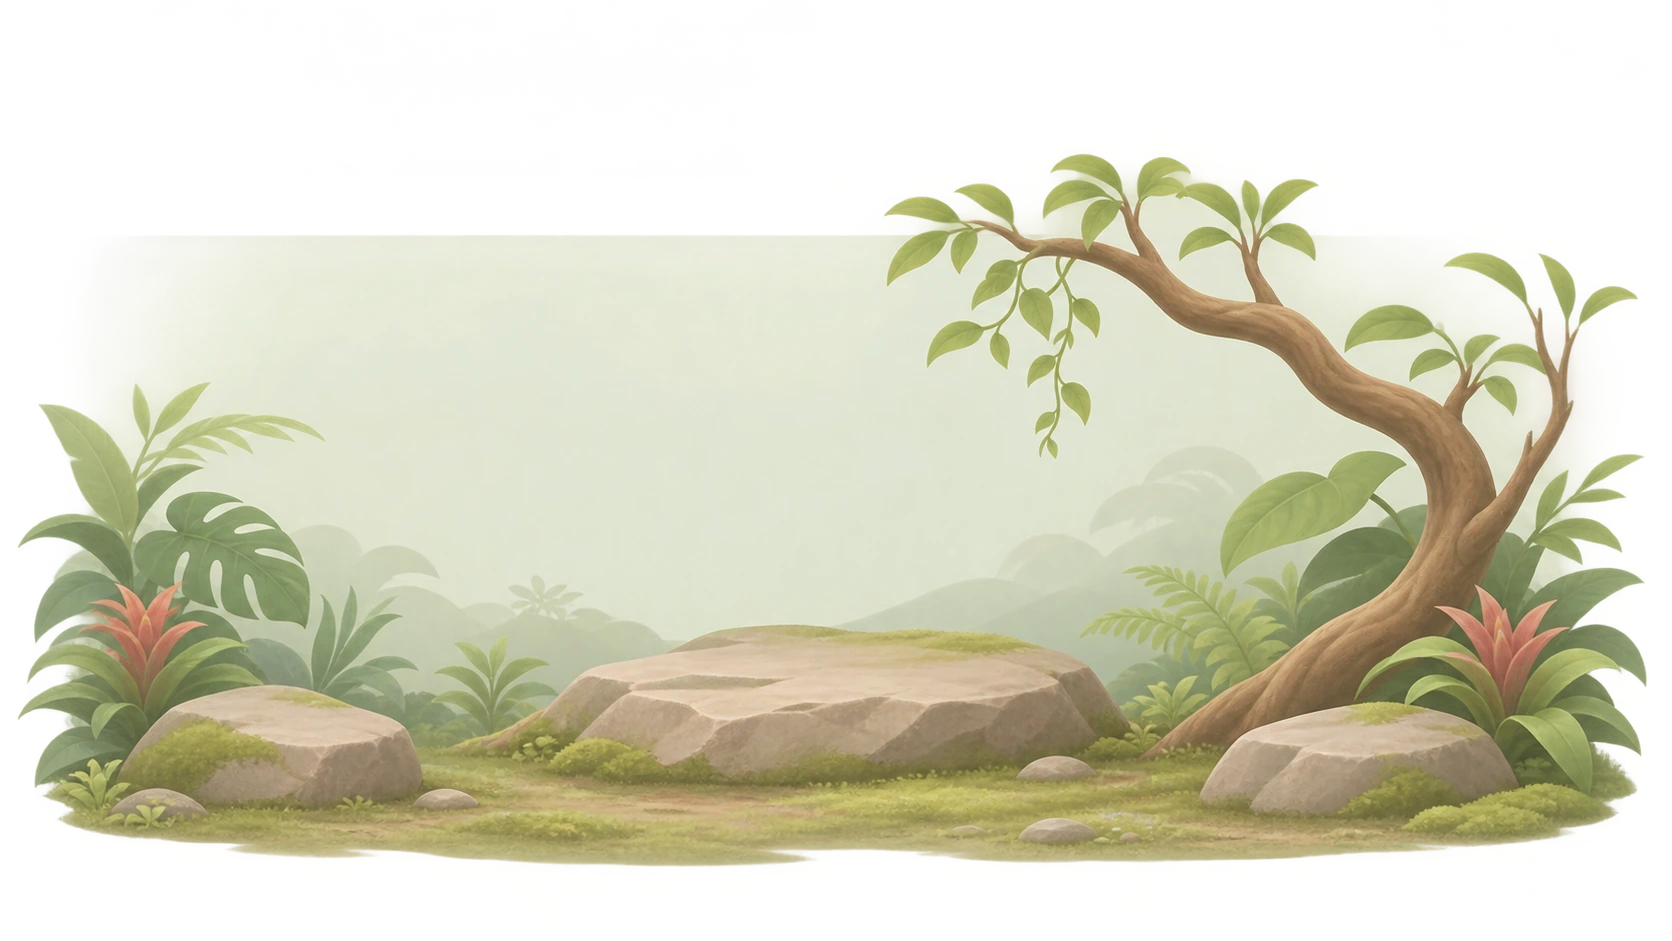
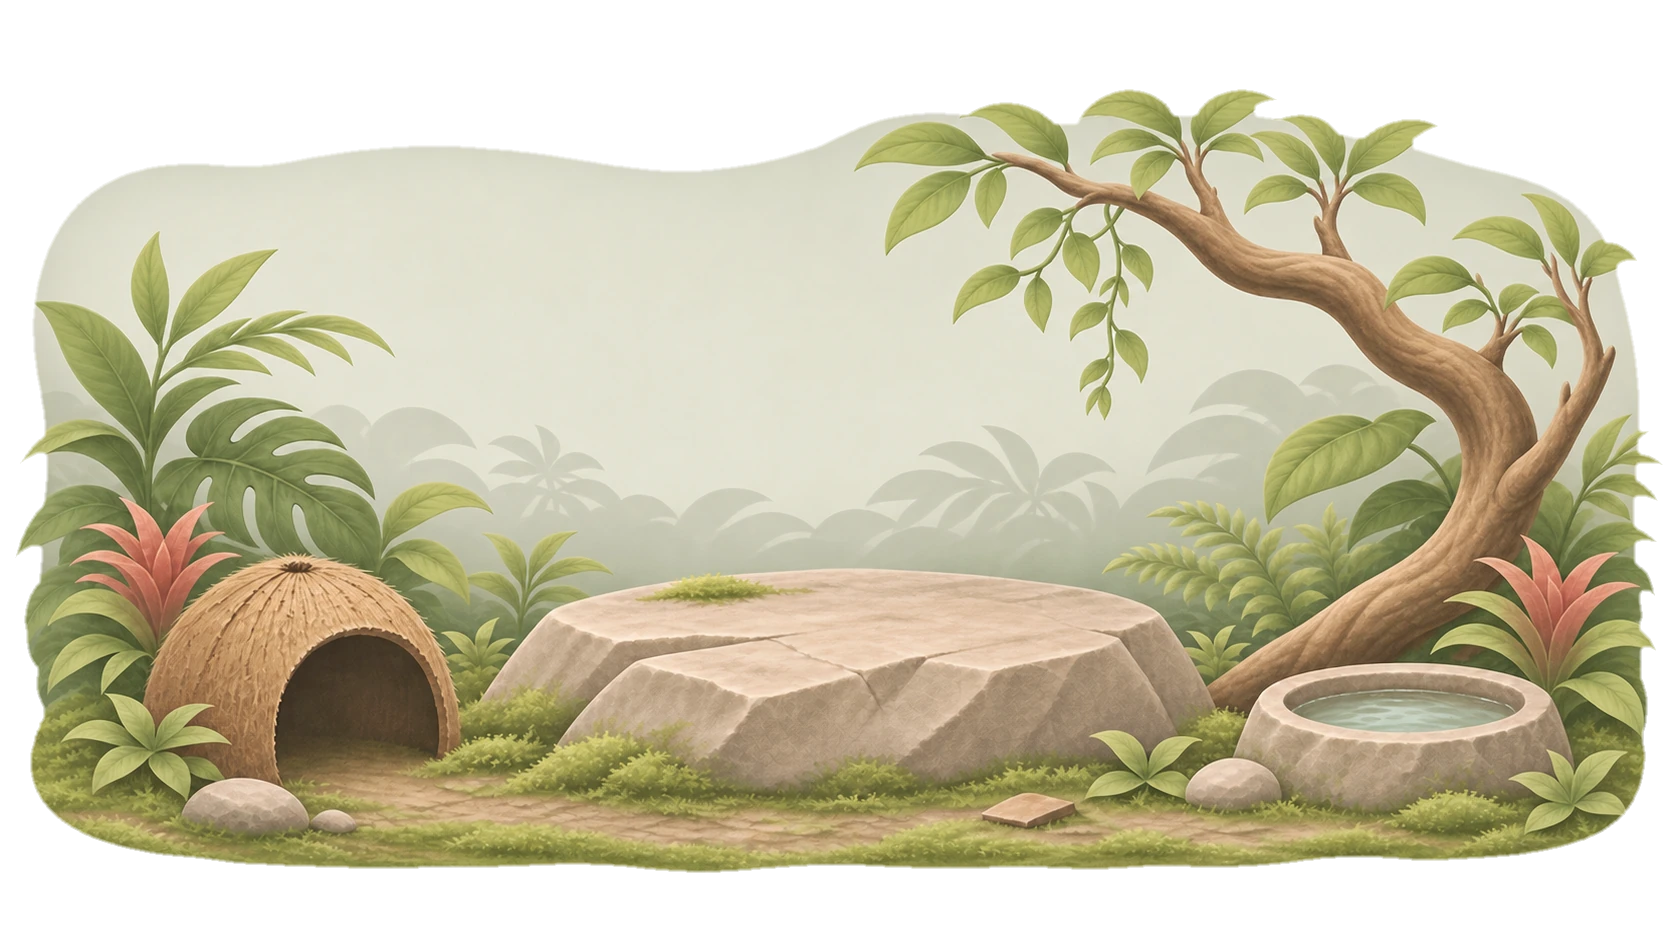
Refine tropical habitat and featured animal positioning

diff --git a/frontend/styles.css b/frontend/styles.css
@@ -559,7 +559,7 @@
 .enclosure-habitat-slot--left{left:19%}
 .enclosure-habitat-slot--right{left:81%}
 .enclosure-habitat-art{display:flex;flex:1;min-height:0;width:100%;align-items:flex-end;justify-content:center}
-.enclosure-habitat-art img{width:100%;height:100%;object-fit:contain;object-position:bottom;filter:drop-shadow(0 7px 6px #273c2928)}
+.enclosure-habitat-art img{width:100%;height:100%;object-fit:contain;object-position:bottom;filter:drop-shadow(0 7px 6px #273c2928);transform:translateY(var(--habitat-pet-lift,0%))}
 .enclosure-art-fallback{display:grid;place-items:center;min-height:50px;width:100%;font-size:36px;color:#6e916b}
 .enclosure-habitat-pet-name{max-width:100%;font-size:12px;font-weight:800;color:#35513b;background:#f7f8efdc;padding:5px 11px;border-radius:16px;text-align:center;overflow:hidden;text-overflow:ellipsis;white-space:nowrap}
 .enclosure-habitat-caption{position:absolute;bottom:10px;left:20px;margin:0;z-index:2;color:#4e6750;font-size:11px;background:#f7f8edce;border-radius:8px;padding:5px 9px}
@@ -620,3 +620,219 @@
 .enclosure-occupant-row>.enclosure-occupant-card{flex:1;min-width:0}
 .enclosure-occupant-row>.enclosure-occupant-remove{margin-left:0}
 .enclosure-habitat-placeholder.is-tropical{aspect-ratio:1672/941;max-height:none}
+
+/* Stage 3D.2 — approved tropical artwork and featured-pet alignment (15 Nov).
+   Only the Enclosure Details presentation is affected. */
+.enclosure-details-page{
+  width:100%;
+  margin-inline:auto;
+}
+/* Center this page heading without changing the other section headers. */
+.main-area:has(#enclosureDetailsPage:not([hidden])) > .topbar{
+  display:grid;
+  grid-template-columns:minmax(0,1fr) auto minmax(0,1fr);
+  align-items:center;
+}
+.main-area:has(#enclosureDetailsPage:not([hidden])) > .topbar .page-heading{
+  grid-column:2;
+  text-align:center;
+  min-width:0;
+}
+.main-area:has(#enclosureDetailsPage:not([hidden])) > .topbar .header-actions{
+  grid-column:3;
+  justify-self:end;
+}
+/* Preserve the 1672 x 941 art framing and keep its transparent edges. */
+.enclosure-habitat-placeholder.is-tropical{
+  aspect-ratio:1672 / 941;
+  min-height:0;
+  max-height:none;
+  background-image:url('./public/assets/illustrations/enclosures/tropical-habitat.webp');
+  background-position:center;
+  background-size:contain;
+  background-repeat:no-repeat;
+}
+/* The illustrated pet is anchored lower, with its feet visually meeting the rock.
+   Keep its name ABOVE the image rather than on the rock surface. */
+.enclosure-habitat-placeholder.is-tropical .enclosure-habitat-slot--center{
+  left:50%;
+  bottom:12%;
+  width:29%;
+  height:40%;
+}
+.enclosure-habitat-placeholder.is-tropical .enclosure-habitat-pet-name{
+  order:-1;
+  margin-bottom:3px;
+}
+@media(max-width:680px){
+  .main-area:has(#enclosureDetailsPage:not([hidden])) > .topbar{
+    display:flex;
+    flex-wrap:wrap;
+  }
+  .main-area:has(#enclosureDetailsPage:not([hidden])) > .topbar .page-heading{
+    flex:1;
+    text-align:center;
+  }
+  .main-area:has(#enclosureDetailsPage:not([hidden])) > .topbar .header-actions{
+    margin-left:auto;
+  }
+  .enclosure-habitat-placeholder.is-tropical .enclosure-habitat-slot--center{
+    left:50%;bottom:10%;width:32%;height:40%;
+  }
+  .enclosure-habitat-placeholder.is-tropical .enclosure-habitat-pet-name{
+    font-size:10px;padding:3px 7px;
+  }
+}
+
+/* Stage 3D.2 habitat polish: keep page title aligned like Pet Details,
+   center only the enclosure content, soften ONLY the artwork's edges. */
+.main-area:has(#enclosureDetailsPage:not([hidden])) > .topbar {
+  display:flex;
+  align-items:center;
+  justify-content:space-between;
+  gap:24px;
+}
+.main-area:has(#enclosureDetailsPage:not([hidden])) > .topbar .page-heading {
+  grid-column:auto;
+  text-align:left;
+  min-width:0;
+}
+.main-area:has(#enclosureDetailsPage:not([hidden])) > .topbar .header-actions {
+  grid-column:auto;
+  margin-left:auto;
+}
+.enclosure-details-page {
+  max-width:1120px;
+  margin-inline:auto;
+}
+/* Keep the approved WebP unchanged. A masked artwork layer blends the
+   ragged transparent outer edge into the existing sage card background. */
+.enclosure-habitat-placeholder.is-tropical {
+  background-image:linear-gradient(145deg,#edf0e1,#e3e9dd 70%,#e9e7d7);
+}
+.enclosure-habitat-placeholder.is-tropical::before {
+  content:"";
+  position:absolute;
+  inset:0;
+  z-index:0;
+  pointer-events:none;
+  background:url('./public/assets/illustrations/enclosures/tropical-habitat.webp') center / contain no-repeat;
+  -webkit-mask-image:
+    linear-gradient(to right,transparent 0%,#000 7%,#000 93%,transparent 100%),
+    linear-gradient(to bottom,transparent 0%,#000 6%,#000 94%,transparent 100%);
+  -webkit-mask-composite:source-in;
+  mask-image:
+    linear-gradient(to right,transparent 0%,#000 7%,#000 93%,transparent 100%),
+    linear-gradient(to bottom,transparent 0%,#000 6%,#000 94%,transparent 100%);
+  mask-composite:intersect;
+}
+.enclosure-habitat-placeholder.is-tropical .enclosure-habitat-slots {
+  z-index:1;
+}
+/* Lift the animal ~3% of the habitat height; its feet should meet the rock top. */
+.enclosure-habitat-placeholder.is-tropical .enclosure-habitat-slot--center {
+  bottom:15%;
+}
+@media(max-width:680px) {
+  .main-area:has(#enclosureDetailsPage:not([hidden])) > .topbar .page-heading {
+    text-align:left;
+  }
+  .enclosure-habitat-placeholder.is-tropical .enclosure-habitat-slot--center {
+    bottom:13%;
+  }
+}
+
+
+
+/* ==========================================
+   STAGE 3D.2 — FEATURED ANIMAL POSITIONING
+   ========================================== */
+
+/* TARANTULA */
+.enclosure-habitat-art--tarantula {
+    --habitat-pet-lift: 0%;
+}
+
+/* SCORPION */
+.enclosure-habitat-art--scorpion {
+    --habitat-pet-lift: -10%;
+}
+
+/* BALL PYTHON */
+.enclosure-habitat-art--python {
+    --habitat-pet-lift: -24%;
+}
+
+/* LEOPARD GECKO */
+.enclosure-habitat-art--gecko {
+    --habitat-pet-lift: -40%;
+}
+
+
+/* ==========================================
+   ANIMAL NAME POSITIONING
+   ========================================== */
+
+/* Default name position */
+.enclosure-habitat-slot--center {
+    --habitat-name-lift: 0px;
+}
+
+/* Tarantula name */
+.enclosure-habitat-slot--center:has(.enclosure-habitat-art--tarantula) {
+    --habitat-name-lift: 30px;
+}
+
+/* Scorpion name */
+.enclosure-habitat-slot--center:has(.enclosure-habitat-art--scorpion) {
+    --habitat-name-lift: -12px;
+}
+
+/* Python name */
+.enclosure-habitat-slot--center:has(.enclosure-habitat-art--python) {
+    --habitat-name-lift: -40px;
+}
+
+/* Gecko name */
+.enclosure-habitat-slot--center:has(.enclosure-habitat-art--gecko) {
+    --habitat-name-lift: -18px;
+}
+
+/* Apply name positioning */
+.enclosure-habitat-placeholder.is-tropical
+.enclosure-habitat-slot--center
+.enclosure-habitat-pet-name {
+    transform: translateY(var(--habitat-name-lift, 0px));
+}
+
+
+/* ==========================================
+   MOBILE ADJUSTMENTS
+   ========================================== */
+
+@media (max-width: 680px) {
+
+    .enclosure-habitat-art--scorpion {
+        --habitat-pet-lift: -5%;
+    }
+
+    .enclosure-habitat-art--python {
+        --habitat-pet-lift: -10%;
+    }
+
+    .enclosure-habitat-art--gecko {
+        --habitat-pet-lift: -8%;
+    }
+
+    .enclosure-habitat-slot--center:has(.enclosure-habitat-art--scorpion) {
+        --habitat-name-lift: -8px;
+    }
+
+    .enclosure-habitat-slot--center:has(.enclosure-habitat-art--python) {
+        --habitat-name-lift: -20px;
+    }
+
+    .enclosure-habitat-slot--center:has(.enclosure-habitat-art--gecko) {
+        --habitat-name-lift: -10px;
+    }
+}

diff --git a/frontend/app.js b/frontend/app.js
@@ -1293,9 +1293,15 @@ function enclosureArtworkFor(pet) {
 }
 function enclosurePetPicture(pet, className) {
   const wrapper = elem('span', className);
+  if (Object.hasOwn(approvedIllustrations, pet.illustration_key)) {
+    wrapper.classList.add(`${className}--${pet.illustration_key}`);
+  }
   const url = enclosureArtworkFor(pet);
   if (!url) { wrapper.append(elem('span', 'enclosure-art-fallback', '◇')); return wrapper; }
   const img = elem('img'); img.src = url; img.alt = ''; img.loading = 'lazy';
+  if (Object.hasOwn(approvedIllustrations, pet.illustration_key)) {
+    img.classList.add(`enclosure-art-image--${pet.illustration_key}`);
+  }
   img.addEventListener('error', () => wrapper.replaceChildren(elem('span','enclosure-art-fallback','◇')), {once:true});
   wrapper.append(img); return wrapper;
 }
@@ -1326,17 +1332,18 @@ function renderEnclosureDetails(enclosure, pets, petsError) {
   $('#enclosureDetailsPetCount').textContent = petsError ? 'Unavailable' : `${count} ${count===1?'pet':'pets'}`;
   const warning = $('#enclosureDetailsPetsWarning'); warning.hidden = !petsError;
   if (petsError) warning.textContent = 'Assigned pets could not be loaded. Check the Data Management Service (port 3001) and reopen this enclosure.';
-  $('#enclosureHabitatCaption').textContent = petsError ? 'Pet illustrations unavailable until occupants load.' :
-    count > 3 ? `Showing 3 of ${count} assigned pets · all pets appear below` :
-    count === 0 ? 'No pet illustrations yet · assign a pet from its profile' :
-    `${count} of ${count} assigned ${count===1?'pet':'pets'} illustrated`;
-  // A single pet occupies the center; two occupy center and right; three use all positions.
-  const positions = count === 1 ? ['center'] : count === 2 ? ['center','right'] : ['center','left','right'];
-  pets.slice(0,3).forEach((pet,index) => {
-    const slot = elem('div',`enclosure-habitat-slot enclosure-habitat-slot--${positions[index]}`);
-    slot.append(enclosurePetPicture(pet,'enclosure-habitat-art'),elem('span','enclosure-habitat-pet-name',pet.name || 'Unnamed pet'));
+  // One representative animal in the habitat, regardless of the number of occupants.
+  // Featured Pet selection is intentionally deferred; use the first assigned pet for now.
+  const featuredPet = petsError ? null : pets[0];
+  $('#enclosureHabitatCaption').textContent = petsError ? 'Pet illustration unavailable until occupants load.' :
+    count === 0 ? 'No pets assigned yet' :
+    count === 1 ? 'Featured pet · 1 pet assigned' :
+    `Featuring ${featuredPet.name || 'one pet'} · ${count} pets assigned (see all below)`;
+  if (featuredPet) {
+    const slot = elem('div','enclosure-habitat-slot enclosure-habitat-slot--center');
+    slot.append(enclosurePetPicture(featuredPet,'enclosure-habitat-art'),elem('span','enclosure-habitat-pet-name',featuredPet.name || 'Unnamed pet'));
     slots.append(slot);
-  });
+  }
   if (!petsError && !count) occupants.append(elem('p','enclosure-occupants-empty','No pets assigned yet. Use Assign Pet to choose a companion.'));
   for (const pet of pets) {
     const button = elem('button','enclosure-occupant-card'); button.type='button';

diff --git a/frontend/index.html b/frontend/index.html
@@ -78,7 +78,7 @@
               <h2 id="enclosureDetailsName">Enclosure</h2>
               
             </div>
-            <div class="enclosure-habitat-slots" id="enclosureHabitatSlots" aria-label="Up to three assigned animals"></div>
+            <div class="enclosure-habitat-slots" id="enclosureHabitatSlots" aria-label="Featured animal illustration"></div>
             <p class="enclosure-habitat-caption" id="enclosureHabitatCaption"></p>
           </section>
           <div class="enclosure-details-panels">
